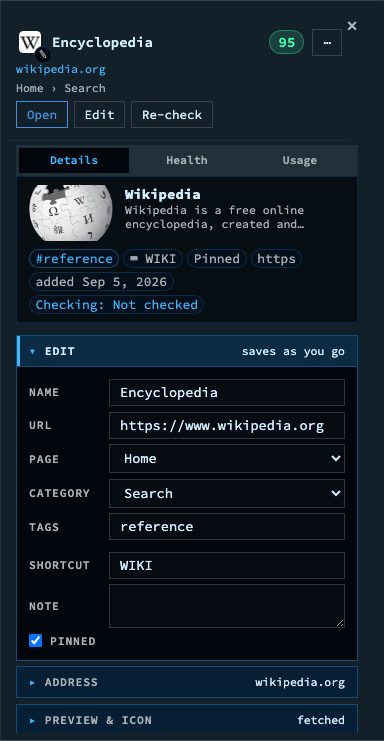
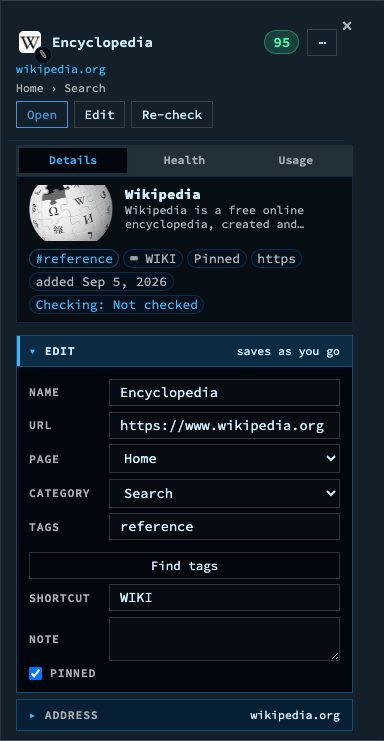
Manual: tours, tag suggestions, Home Assistant, animation speed, new screenshots

diff --git a/tests/manual-screenshots.spec.js b/tests/manual-screenshots.spec.js
@@ -1296,3 +1296,63 @@ test.describe('tablet', () => {
         await shot(page, '22-tablet.jpg');
     });
 });
+
+/*
+ * Added with the tag suggestions in the rows, the Home Assistant tile and the
+ * animation speed.
+ */
+
+test('10 tag view offers', async ({ page }) => {
+    await prepare(page);
+    await openDashboard(page);
+    await page.keyboard.press('/');
+    await page.locator('#tag-cloud-modal.is-open').waitFor();
+    await page.waitForTimeout(600);
+    const tags = await page.locator('#tag-cloud-modal [data-tag]').evaluateAll((els) => els.map((el) => el.getAttribute('data-tag')));
+    await page.keyboard.press('Escape');
+    // The first tag whose view has something to offer; the demo has few.
+    let found = null;
+    for (const tag of tags) {
+        await page.goto(`/#tag/${encodeURIComponent(tag)}`);
+        await page.locator('#dashboard-layout .tag-view .tag-view-row').first().waitFor();
+        await page.waitForTimeout(1_500);
+        if (await page.locator('.tag-view-offer-count:not([hidden])').count()) { found = tag; break; }
+    }
+    console.log(`tag view with offers: ${found}`);
+    if (!found) throw new Error('no tag view has offers in the demo data');
+    await page.mouse.move(5, 5);
+    await snap(page, page.locator('#dashboard-layout .tag-view'), '10-tag-view-offers.jpg', { pad: 0 });
+});
+
+test.describe('home assistant tile', () => {
+    test.use({ dataPatch: 'homeassistant' });
+    test('15 home assistant', async ({ page }) => {
+        await prepare(page);
+        const minute = 60_000;
+        const now = NOW.getTime();
+        const items = [
+            { id: 'light.ceiling', title: 'Ceiling light', kind: 'entity', library: 'Living room', libraryId: 'Living room', addedAt: now - 5 * minute, value: 'on', control: 'toggle', on: true, icon: 'light', openUrl: 'http://homeassistant.local:8123/history' },
+            { id: 'sensor.temperature', title: 'Temperature', kind: 'entity', library: 'Living room', libraryId: 'Living room', addedAt: now - 2 * minute, value: '21.4 °C', icon: 'temperature', openUrl: 'http://homeassistant.local:8123/history' },
+            { id: 'light.reading', title: 'Reading lamp', kind: 'entity', library: 'Living room', libraryId: 'Living room', addedAt: now - 40 * minute, value: 'off', control: 'toggle', on: false, icon: 'light', openUrl: 'http://homeassistant.local:8123/history' },
+            { id: 'scene.movie_night', title: 'Movie night', kind: 'entity', library: 'Living room', libraryId: 'Living room', control: 'run', icon: 'scene', openUrl: 'http://homeassistant.local:8123/history' },
+            { id: 'binary_sensor.back_door', title: 'Back door', kind: 'entity', library: 'Kitchen', libraryId: 'Kitchen', value: 'off', icon: 'door', openUrl: 'http://homeassistant.local:8123/history' },
+        ];
+        await page.route('**/api/widgets/homeassistant?**', (route) => route.fulfill({ json: {
+            fetchedAt: now, controls: true, libraries: [{ id: 'Kitchen', name: 'Kitchen' }, { id: 'Living room', name: 'Living room' }], items,
+        } }));
+        await openDashboard(page, '#4');
+        const tile = page.locator('[data-widget-type="homeassistant"]').first();
+        await tile.waitFor();
+        await page.waitForTimeout(800);
+        await snap(page, tile, '15-home-assistant.jpg', { pad: 10 });
+    });
+});
+
+test('17 animation speed', async ({ page }) => {
+    await prepare(page);
+    await openConfig(page, 'appearance');
+    const field = page.locator('[data-appearance-select="animationSpeed"]').first();
+    await field.scrollIntoViewIfNeeded();
+    await page.waitForTimeout(400);
+    await snap(page, page.locator('.config-field-row', { has: page.locator('[data-appearance-toggle="viewAnimationsEnabled"]') }).locator('xpath=..'), '17-animation-speed.jpg', { pad: 14 });
+});

diff --git a/tests/helpers/manual-shot-kit.js b/tests/helpers/manual-shot-kit.js
@@ -246,6 +246,25 @@ function tidyDemoData(dir, patch) {
         ]);
     }
 
+    // One shot only: a page with the Home Assistant tile (its answer is mocked).
+    if (patch === 'homeassistant') {
+        const pages = readJSON(path.join(dir, 'pages.json'));
+        pages.order = [...(pages.order || []), 4];
+        writeJSON(path.join(dir, 'pages.json'), pages);
+        const widgets = [{
+            id: 'w_h00000000001',
+            type: 'homeassistant',
+            config: { server: 'http://homeassistant.local:8123', layout: 'list', groupBy: 'none', entities: ['light.ceiling', 'sensor.temperature', 'light.reading', 'scene.movie_night', 'binary_sensor.back_door'] },
+        }];
+        writeJSON(path.join(dir, 'bookmarks-4.json'), {
+            page: { id: 4, name: 'Home' },
+            categories: [],
+            widgets,
+            blockOrder: widgets.map((w) => w.id),
+            bookmarks: [],
+        });
+    }
+
     // One shot only: a page of the seven Unraid widgets.
     if (patch === 'unraid') {
         const pages = readJSON(path.join(dir, 'pages.json'));

diff --git a/MANUAL.md b/MANUAL.md
@@ -886,7 +886,7 @@ A bookmark row shows its icon, name, optional tags, the shortcut letters and, wh
 
 **A key legend** under the grid shows the four most useful keys once you start moving with the keyboard; switch it under Behavior → Keyboard & search.
 
-**Occasional tips.** Now and then the dashboard shows one keyboard tip, never the same one twice. Switch them off under Behavior → Privacy & sync → Onboarding.
+**Occasional tips.** Now and then the dashboard shows one keyboard tip: at most one in any 24 hours, counted across your devices, never the same one twice and never over a modal. Switch them off under Behavior → Privacy & sync → Onboarding.
 
 <a id="corner-cards"></a>
 
@@ -896,9 +896,9 @@ A bookmark row shows its icon, name, optional tags, the shortcut letters and, wh
 - **Kept links** — ten or more links you kept have waited over a month in **Unsorted**. **Open Unsorted** shows them; the card never files or deletes anything.
 - **Tag suggestions** — a round of tag review when there is something worth accepting ([§10.4](#104-tag-suggestions)).
 - **Clock and weather** — asks for a town, a clock and a unit when no location is set.
-- **Install count** — says once that the daily count of installs is on, what leaves the server, and offers **Turn it off** ([§23.7](#237-what-nextdash-contacts)).
+- **Install count** — says once that the daily count of installs is on, what leaves the server, and offers **Turn it off** ([§23.7](#237-what-nextdash-contacts)). It waits two days after the analytics question, so the two privacy cards never arrive in one visit.
 - **Moving blocks** — once, a see-through copy of the first category glides to its next place to show that blocks can be moved, and a card under its `//` offers **Try it**. The first time you pick a block up, a card beside the landing box lists the keys until **Got it**.
-- **Others** — browser notifications, the theme browser, spreading a category and the tour of what moved.
+- **Others** — browser notifications, the theme browser and the tour of what moved.
 
 Each review card has a switch under Behavior → Privacy & sync → Onboarding. The same place lists every card with **Answered** or **Not shown yet**, and **Show again** brings an answered one back the next time its moment arrives.
 
@@ -1245,7 +1245,7 @@ A toolbar appears with **Move**, **Tags**, **Pin**, **Checking**, **Open**, **Co
 
 ### 7.6 The cheat sheet
 
-**`!`** or **`F1`** opens the cheat sheet with a filter box. It opens on the section for the view you are in, and lists more than 200 keys and commands across Navigation, Bookmarks, Widgets, Selecting several, the **Bookmarks view**, the **Inbox view** and **Inbox triage**, the **Containers view**, the Config view, search modes and every command. A printable version is linked at the top of Config → Help and at the top of this manual. Keys cannot be rebound.
+**`!`** or **`F1`** opens the cheat sheet with a filter box. It opens on the section for the view you are in, and lists more than 200 keys and commands across Navigation, Bookmarks, Widgets, Selecting several, the **Bookmarks view**, the **Tag view**, the **Inbox view** and **Inbox triage**, the **Containers view**, the Config view, search modes and every command. A printable version is linked at the top of Config → Help and at the top of this manual. Keys cannot be rebound.
 
 While a panel is open, the grid behind it does not react. `Tab` stays inside the panel, and `Escape` closes it and puts focus back where it was.
 
@@ -1599,7 +1599,8 @@ A file is at most 2 MB.
 - The **header** shows where you came from, the tag (or tags), and a line of figures: how many bookmarks, on how many pages, what was opened last and most, and how many are broken. **Open all** opens every bookmark shown, **Copy links** copies their addresses, and **Manage tag** can **Rename** the tag, **Merge into another tag**, or **Remove from all bookmarks**. Each of these can be undone.
 - The **rail** on the side lists **Related tags** (click one to switch to it, `Shift`+click to add it), the **Pages** the bookmarks live on, and a **Health** filter for broken or never opened bookmarks.
 - The **toolbar** has a search box (`/` jumps to it), a count such as "12 of 40", and a sort menu. Clicking a column head sorts by it too. The table shows each bookmark's name and site, its other tags, its page, how often and when it was last opened, and its score.
-- Move with `↑` `↓`, `g` and `G` jump to the first and last row, `Enter` opens the bookmark, `i` opens its side panel (details, tags, health, with **Open** and **Edit**), and `e` opens the bookmark form.
+- Move with `↑` `↓`, `g` and `G` jump to the first and last row, `Enter` opens the bookmark, `i` opens its side panel (details, tags, health, with **Open** and **Edit**), and `e` opens the bookmark form. `a` adds the suggested tags of the focused row ([§10.4](#104-tag-suggestions)). Each row carries the site's icon.
+- On a row, `Shift` plus `E`, `P`, `T`, `M`, `D`, `C`, `R`, `L` or `J` does what it does on the dashboard: edit, pin, tags, move, delete, check mode, health, share link and QR code. `Delete` deletes, `Ctrl/Cmd + C` copies the address, and the row menu is the dashboard's. The cheat sheet has a **Tag view** section with all of it ([§7.6](#76-the-cheat-sheet)).
 - `x` ticks a row. `Alt`+click ticks one, `Shift`+click ticks a range, and the tick in the header ticks everything shown. A bar then offers **Open**, **Move to…**, **Delete** and **Clear**. **Move to…** takes a page; categories belong to one page, so they are offered only when every bookmark is on the same one.
 - `Escape` lets go of one thing at a time: the side panel, then the selection. After that it leaves the view and takes you back to the page you opened it from. In the search box, `Escape` first clears what you typed. The home icon and your browser's Back button do the same.
 - Ways in: the tag cloud, `t` on a selected bookmark (it opens the view for that bookmark's tag), or `:filter <tag>`.
@@ -1627,10 +1628,16 @@ A file is at most 2 MB.
 
 - **Your rules** (the **Your rules** tab) — `github.com → #code`, a site or a site plus one section. They win over everything.
 - **Your own tags** — when most tagged bookmarks on a site share a tag, the rest are offered it.
-- **A shipped list** of 463 subjects and the sites that belong to them. Your own words win: a subject called `dev` is offered as `#code` if that is what you use.
+- **A shipped catalogue** of 471 subjects and some 51,000 sites that belong to them. Your own words win: a subject called `dev` is offered as `#code` if that is what you use.
+- **Wikidata** (on by default) — for a site the catalogue does not know, the server asks Wikidata once what it is. Only the host name leaves the server, and only for hosts on the public internet; an address on your network never goes out. Answers are kept for 90 days, and for 30 when Wikidata does not know the site. Switch it off with **Look up unknown sites on Wikidata** in this tab's menu.
 - **Read their pages** (optional) — fetches the pages nothing else can place and files them by what they are about. It says what it will cost, shows progress and can be stopped. Only a dozen keywords per page are kept.
 
 Each row names its source and its count. A click on the row or its count opens the group, so single bookmarks can be left out. **Apply** tags the rest (undo in the toast); **No thanks** stops the proposal from coming back, and refusals are listed with a way back. At most 25 rows show at a time. **Forget the scanned keywords** (here or under Data & backups → Icons & previews) clears what *Read their pages* kept.
+
+**In the rows.** The tag view and the Bookmarks view show offers in the rows themselves: a dashed chip after a row's tags — click it to add the tag, **×** to turn it down — and a line over the list, *7 tag suggestions · Add all*. A tag you take off by hand is not offered again. These offers come from the catalogue, your rules, your own tags and pages already read; opening a view never goes online by itself. **Find tags** asks further: in the tag view its menu offers *Find tags for these N* (the catalogue, then Wikidata) and *Read pages of these N* (slower, it asks each site), with **Add found tags right away**; the row menu and the selection bar do the same for one row or the ones you ticked, and so does the Bookmarks view in its side panel and selection bar. In the bookmark form and the tag popover, **Read page** reads that one page when nothing else turns up.
+
+<p align="center"><img src="screenshots/manual.md/10-tag-view-offers.jpg" alt="The tag view for dev: a line reading 3 tag suggestions and Add all under the figures, and dashed suggestion chips after the tags of three rows" width="720"></p>
+<p align="center"><sub>Suggestions in the rows of the tag view, with <b>Add all</b> and <b>Find tags</b>.</sub></p>
 
 The same proposals appear, one bookmark at a time, in the bookmark form, the Bookmarks view's side panel, `Shift + T` and the selection's tag picker ([§10.1](#101-tags-on-a-bookmark)). Turning one down there counts as **No thanks** here, and the list on this tab follows.
 
@@ -1810,7 +1817,7 @@ Beside it, the **Collection ▾** menu gathers what a whole-collection toolbar u
 - **Checks** — **Retest all**, **Open broken links…**, **Fetch previews…**, **Checking off…**.
 - **Export CSV**, **Refresh report** (`Shift + R`), and **Health settings**.
 
-An **ⓘ** beside the menu explains the view, and **Tour** next to it plays a ten-step walkthrough of it ([§17](#view-tours)).
+An **ⓘ** beside the menu explains the view, and **Tour** next to it plays a five-step walkthrough of it ([§17](#view-tours)).
 
 <a id="118-collection-health"></a>
 
@@ -2083,7 +2090,7 @@ Inside a window, checks still run and the heartbeat still records them, but a fa
 - A bookmark with news carries a count on its row, and the **Fresh** collection lists them, newest first. Opening the bookmark clears the count.
 - Feeds are polled on the background re-check interval with conditional requests. A feed that fails five times in a row is dropped; the Feeds widget shows it with **Retry**.
 - The bookmark editor shows a **Feed** line when there is one. `status:feed` / `-status:feed` search for them. **Mark rows that publish** (off by default) puts a quiet dot on those rows.
-- Fresh stores no articles, only counts. It is off by default because it contacts other servers on a schedule. A walkthrough is under Config → Help → Monitoring.
+- Fresh stores no articles, only counts. It is off by default because it contacts other servers on a schedule. The guide is under Config → Help → Monitoring.
 
 <a id="127-keeping-a-copy-of-a-page"></a>
 
@@ -2267,7 +2274,7 @@ An Unsorted bookmark stays off the dashboard, the tag cloud, smart collections a
 
 Inbox settings moved to their own config section — **Config → Inbox** ([§17.6](#176-config-inbox)): showing it in the header, quick-adding a pasted URL, keeping links without filing them, filing a kept link where its neighbours already are, the paste destination, and removing an inbox entry once it is promoted.
 
-The first visit plays a five-step tour: the waiting room the inbox is, the three ways a link leaves (promote, keep, delete), where a kept link goes (Bookmarks → Unsorted), how to keep one, and the keys. **Tour**, above the list, plays it again; so does Behavior → Privacy & sync → Onboarding.
+The first visit plays a four-step tour: the waiting room the inbox is, reading, snoozing and noting a link, the three ways a link leaves (promote, keep, delete) and where a kept link goes (Bookmarks → Unsorted), and triage with its keys. **Tour**, above the list, plays it again; so does Behavior → Privacy & sync → Onboarding.
 
 <sub>[↑ Contents](#table-of-contents)</sub>
 
@@ -2289,7 +2296,7 @@ The **Containers view** shows the Docker containers on the machine nextDash runs
 
 ### 14.1 Opening it
 
-Open it with **`Shift + Y`**, the Containers icon in the header, `:docker`, or `/#docker`. Search also finds containers by name, and the **Containers** widget's tile opens the view. Two tabs sit above the list: **Containers** and **Disk** ([§14.7](#147-disk)). The **ℹ** beside **Tour** in the header gives a five-part reference: the list, acting on containers, the side panel, updates and Disk. **Tour** plays a fifteen-step walkthrough with moving drawings — offered once on your first visit, and once more after an upgrade that changed the view ([§17](#view-tours)).
+Open it with **`Shift + Y`**, the Containers icon in the header, `:docker`, or `/#docker`. Search also finds containers by name, and the **Containers** widget's tile opens the view. Two tabs sit above the list: **Containers** and **Disk** ([§14.7](#147-disk)). The **ℹ** beside **Tour** in the header gives a five-part reference: the list, acting on containers, the side panel, updates and Disk. **Tour** plays a six-step walkthrough with moving drawings — offered once on your first visit ([§17](#view-tours)).
 
 <a id="142-the-list"></a>
 
@@ -2616,6 +2623,15 @@ These read one server, set once under Config → Unraid ([§15.6](#156-unraid-wi
 | **Seerr** | Requests in Overseerr or Jellyseerr, under *Pending*, *Approved* and *Available*, with who asked and the poster. Show every request or one state, films, series or both, from everyone or one person |
 | **qBittorrent**, **SABnzbd** | What is downloading, paused and finished, with progress, speed and time left, and the client's speeds and counts on top. As one list or a tab per part (*Downloading*, *Paused*, *Done*). Without posters, and in the order you choose |
 
+*What is going on at home?*
+
+| Kind | Shows |
+|---|---|
+| **Home Assistant** | The entities you choose, with their value and since when, as loose items with their room, or a tab per room. Lights, switches, fans, scenes and scripts can be switched from the tile; locks, covers, doors and sensors only report |
+
+<p align="center"><img src="screenshots/manual.md/15-home-assistant.jpg" alt="The Home Assistant tile: a ceiling light switched on, a temperature of 21.4 °C, a reading lamp switched off, a Start button for the scene Movie night and a closed back door, each with its room" width="380"></p>
+<p align="center"><sub>The Home Assistant tile: loose items, each with its room.</sub></p>
+
 And the **Custom** widget, which reads any service that answers with JSON ([§15.5](#155-the-custom-widget)).
 
 A tile with a row limit shows what it left out (*5 of 12*). A figure on a tile is a link to the rows behind it.
@@ -2667,6 +2683,8 @@ Widgets share one order with the categories and are moved on the dashboard: drag
 | SABnzbd | Config → General → API Key | — |
 
 Then the settings of the kind. Sonarr and Radarr: **Show** (what is coming, what is downloading, or both) and **Look ahead** (1–30 days). Seerr: **Show** (every request, waiting for approval, approved and on its way, or arrived) and **Films or series**. qBittorrent and SABnzbd: **Show** (everything, downloading, paused or finished), **Order** (newest, furthest along or fastest first), **Leave out what has finished**, **Leave out the speeds on top**, and a layout of **One list** or **A tab per part**. All of them: **A click** (open the item in the service, or show its details here first), where it opens, **Items to show** and **Refresh every** — a minute at least for the first three, 15 seconds for the download clients, which change while you look. The keys stay on the server, as with Jellyfin. Seerr's posters come from TMDB, which your server fetches without any key. A failure keeps the last answer and says how old it is; a refused key or sign-in says so on the tile.
+
+**Home Assistant** — fill in the address of your Home Assistant (`http://homeassistant.local:8123`) and a **long-lived access token** (Home Assistant: your profile, under Security) and press **Connect**. The server lists your entities in a searchable list you can narrow by kind (lights, switches, sensors, scenes and so on); pick up to 60 and set their order with ↑ and ↓. Then the **Layout** (a **list** of loose items, or a **strip** with a tab per room), **Group by** (room, kind or nothing), **Show when it last changed**, what **A click** does, where it opens, **Items to show** and **Refresh every** (15 seconds at least, 30 by default). Lights, switches, fans and `input_boolean` entities switch with one click and a scene or a script has a **Start** button; switching needs the write token, like the other actions. A lock, a cover or a door is shown and never operated. The token stays on the server.
 
 <img src="screenshots/manual.md/15-notes.jpg" alt="The Notes tile: a short checklist with two items ticked and struck through, and Edit and Open large" width="380" align="left">
 
@@ -3164,11 +3182,16 @@ it was drawn for, and picking a theme brings its answer with it.
 | **Glow** | **Follow the theme** (default) · Off · Soft · Full — how far the theme's colour carries around a surface. Flat has no glow. |
 | **Effects** | **Follow the theme** (default) · Off · Held back · Full — how loudly the character is drawn: the shine, the glow, the grain, and how round the corners are. Off leaves the palette and nothing else. |
 | **Enable animations** | On · Off — off stills the motion across the app |
+| **Animations in views and modals** | On (default) · Off — the Bookmarks, Inbox, Containers and tag views, and the modals, rise in as they open. **Enable animations** off still wins. |
+| **Animation speed** | Slow · **Normal** (default) · Fast — how quickly those views and modals come in. |
 | **Card glass** | **Follow the theme** (default) · Own — at depth Glass, how solid the panes are (**Opacity**) and how far the page blurs behind them (**Blur**), with **A thin edge round the panes** if you like. **Text on a pane** shows the contrast that is left, and warns when it gets low. With a layout that draws no cards (Default, Compact, Masonry, List), *Own* gives every category a pane of its own; the **Layout preset** is repeated here for that reason. When the theme on screen is not at depth Glass, a button offers to switch to it. |
 | **Use these for every theme** | Off (default), depth, glow, effects, the backdrop and the card glass belong to the theme you are on and each theme keeps its own; on, they hold across the whole install and a theme brings nothing of its own. |
 | **This theme** | **Back to the theme's own** puts them back to what the theme asks for. |
 | **Text contrast** | Soft · Normal · High · Maximum — how far the fainter text sits from its surface |
 | **Favicon harmonization** | Off · On, with **Muted**, **Tinted** or **Overlay** and an intensity. Stored per theme, so the light and dark halves are set separately. |
+
+<p align="center"><img src="screenshots/manual.md/17-animation-speed.jpg" alt="Appearance, Text and motion: Enable animations, Animations in views and modals and the Animation speed choice set to Normal" width="560"></p>
+<p align="center"><sub>Appearance → Text and motion: the two switches and the speed.</sub></p>
 
 While Depth, Glow and Effects say *Follow the theme*, changing one belongs to
 the theme on screen: switch away and back and it is still there, and every
@@ -3485,9 +3508,9 @@ The Unraid server has a section of its own, **Config → Unraid**: the Container
 
 **Help** covers Getting started, Tips, Configuring, Appearance, Structure & bookmarks, the **Bookmarks view**, Widgets, Search & keyboard, **Checks & health**, Monitoring, Inbox, **Containers**, Statistics, Data & hosting and Logs. The search above the tabs covers every tab and About. Each topic has a 🔗 button that copies a link to it. A topic about something that can be switched off says whether it is on for you, with a button to the setting. **Tips** lists every keyboard tip, grouped, with its own filter. **Saving a link from anywhere** (Inbox tab) builds a bookmarklet for this install.
 
-**Guided tours.** Six walkthroughs run over the real page rather than a picture of it: *What has changed*, *First steps*, *Inbox*, *Fresh*, *Widgets* and *Spreading a category*. Replay any of them from **Behavior → Privacy & sync → Onboarding**, or by name from the command palette — `:changes` opens the first. *What has changed* is the one offered by a card in the corner after an upgrade that moved things: its steps say where things now are, and where a default changed the step hands the old arrangement back in one click. The release notes stay separate — see *What's new* below.
+**Guided tours.** Seven tours run over the real page rather than a picture of it: *What has changed*, *First steps*, *The dashboard*, *Inbox*, *Bookmarks view*, *Containers* and *Widgets*. Each is short, four to seven steps, and covers the main things; the rest is in Help. Replay any of them from **Behavior → Privacy & sync → Onboarding**, or by name from the command palette — `:changes` opens the first. *What has changed* is the one offered by a card in the corner after an upgrade that moved things: its steps say where things now are, and where a default changed the step hands the old arrangement back in one click. The release notes stay separate — see *What's new* below.
 
-**The dashboard tour.** Twenty steps with moving drawings, offered once after the quick-start card: it opens on what is new — web search, app icons, the theme editor and the Unraid widgets — then the theme browser, the backdrops and the looks, then walks pages and categories, search, shortcuts, the cursor, adding, link checks, the Bookmarks view, the inbox, Containers, widgets, the first keys to learn, Config and the cheat sheet. After an update to a version that changed it, every reader is offered it once more, after the release notes have been read. Replay it from the same Onboarding list or with `:tour`.
+**The dashboard tour.** Seven steps with moving drawings, offered once after the quick-start card: pages, categories and bookmarks; typing to search; two keys to open and Shift to act; adding by paste, `+` or the extension; the tag cloud and a view per tag; the Bookmarks, Inbox and Containers views; and making it yours, with the cheat sheet and Help. Replay it from the same Onboarding list or with `:tour`.
 
 
 <details>
@@ -3499,7 +3522,7 @@ The Unraid server has a section of its own, **Config → Unraid**: the Container
 
 <a id="view-tours"></a>
 
-**The Bookmarks view and Containers tours.** Two more tours play as drawings in a window, offered once on your first visit to each view. A **Tour** button beside the **ℹ** at the top of the view plays it again whenever you want. The Bookmarks view tour has ten steps: the rail, the three ways to check a link, a failure that says why, pages that change, the charts for one bookmark, Collection health, alerts, clearing the backlog and the keys. The Containers tour has fifteen: the list, its state at a glance, acting on containers, the side panel, updates, Config, your columns, a web UI and its bookmark, updates at night with a rollback, app icons, the charts, logs and Disk. After an upgrade that changed Containers, the tour is offered once more; its first step says it is an update, and the new or changed steps carry a **New** mark. **Behavior → Privacy & sync → Onboarding** replays each tour, these two included.
+**The view tours.** The Bookmarks view, Containers, the Inbox and Config → Widgets each have a tour of their own, drawn in a window and offered once, the first time you visit. A **Tour** button beside the **ℹ** at the top of the view plays it again whenever you want. The Bookmarks view tour has five steps: the list and its rail, the three ways to check a link, charts and collection health, alerts, and clearing the backlog. The Containers tour has six: the list, acting on containers, the side panel, updates with a way back, Disk, and settings and alerts. The Inbox tour has four and the Widgets tour four: what a widget shows, the catalogue, the Custom widget, and how a widget behaves on the page. **Behavior → Privacy & sync → Onboarding** replays each of them.
 
 **About** has two tabs: **About nextDash** (what the project is, and links to nextdash.cc, GitHub, jordibrw.nl and Ko-fi) and **News & features** (every post from nextdash.cc, every release and every setting worth switching on, with source filters, and a button that bookmarks nextdash.cc so Fresh counts its posts).
 
@@ -4089,7 +4112,7 @@ It starts closed because it answers questions about every bookmark. The `Origin`
 
 nextDash can send **anonymous usage statistics** to a self-hosted [Umami](https://umami.is) instance at `stats.nextdash.cc`. It is **off until you turn it on**. The aim is to learn which features are used and what can be improved.
 
-**Install count** — separate from the analytics below, and **on by default**. Once a day the server sends one request to `stats.nextdash.cc` with a random install id and the release you run, so the project can say how many installs exist. On Unraid, which sets `HOST_OS=Unraid` in every container, it also says Unraid. Nothing else: no address, no settings, no bookmarks, no counts. The id lives in the file `install-id` in the data folder; delete it for a new one. Turn it off under **Behavior → Privacy & sync → Count this install**, or for the whole server with `DISABLE_TELEMETRY=true`, which also stops the analytics below.
+**Install count** — separate from the analytics below, and **on by default**. Once a day the server sends one request to `stats.nextdash.cc` with a random install id and the release you run, so the project can say how many installs exist. On Unraid, which sets `HOST_OS=Unraid` in every container, it also says Unraid. Nothing else: no address, no settings, no bookmarks, no counts. The id lives in the file `install-id` in the data folder; delete it for a new one. The card that announces it waits two days after the analytics question. Turn it off under **Behavior → Privacy & sync → Count this install**, or for the whole server with `DISABLE_TELEMETRY=true`, which also stops the analytics below.
 
 - **Turning it on or off** — the card on the dashboard (*Turn on*, *What is recorded?*, *No thanks*), **Config → Behavior → Privacy & sync → Privacy-friendly analytics**, or `:telemetry on` / `:telemetry off`. The page reloads, because the tracker script is only added to the page when analytics is on. Closing the card without answering asks again later; an answer is final.
 - **For the whole server** — `DISABLE_TELEMETRY=true` (also `1`, `yes`, `on`) turns it off for everyone and greys out the switch.
